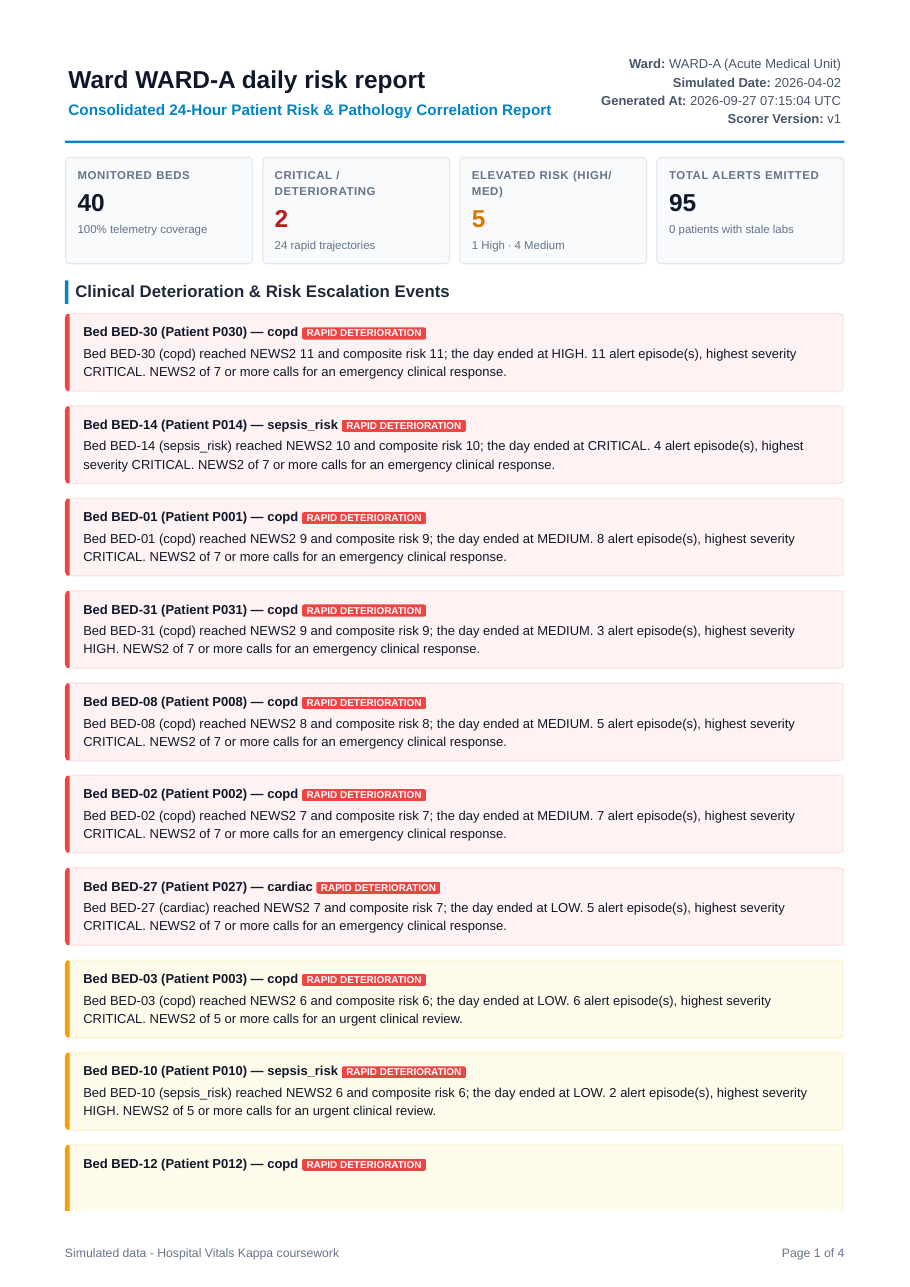
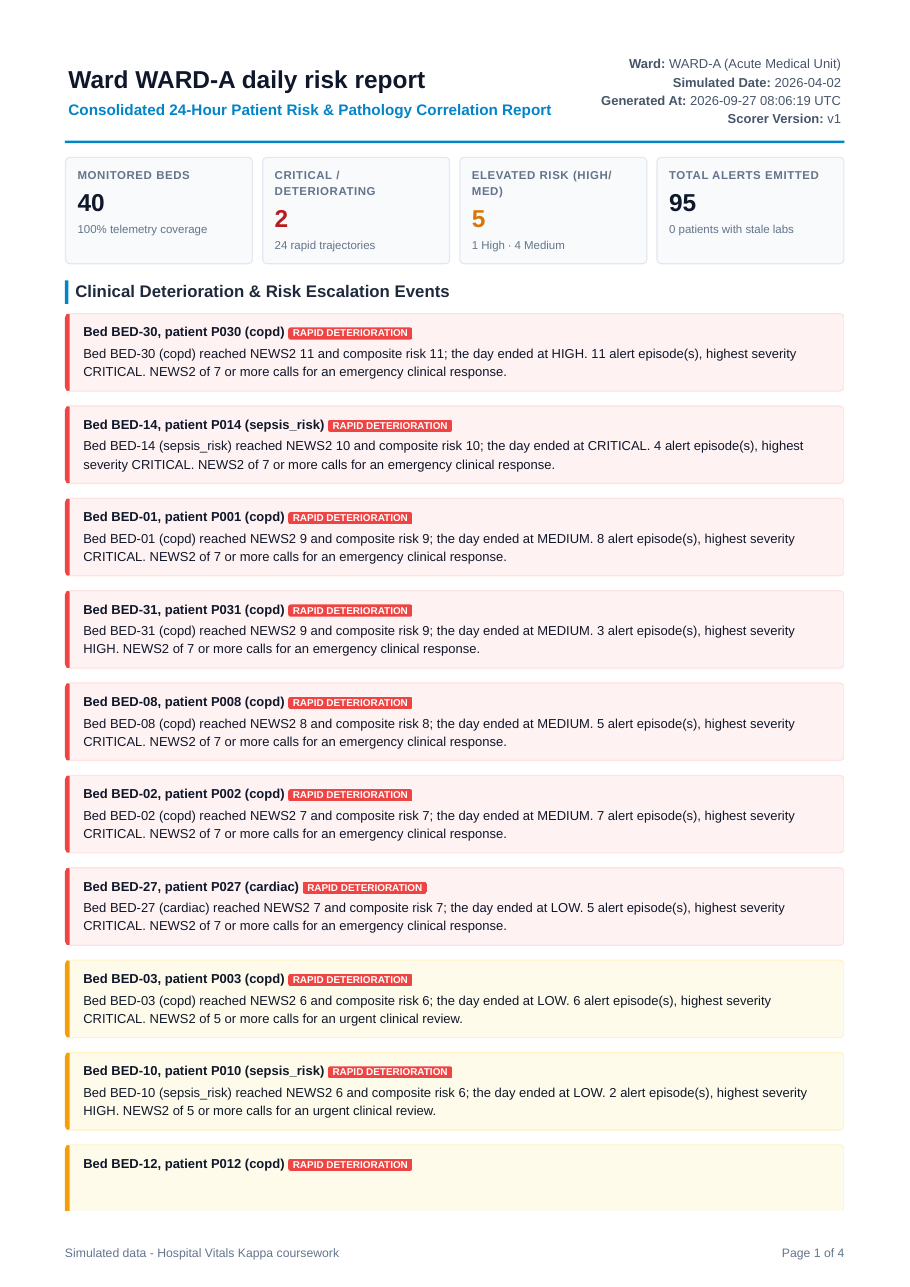
fix(report): daily report heading uses no dash
"Bed BED-14 (Patient P014) - sepsis_risk" used an em dash; it is now
"Bed BED-14, patient P014 (sepsis_risk)". The report figure is re-taken
from the re-rendered day-2 PDF.

diff --git a/ward/reporting/templates/daily_report.html b/ward/reporting/templates/daily_report.html
@@ -241,7 +241,7 @@
     {% for item in critical_highlights %}
       <div class="narrative-box {% if item.is_critical %}critical-narrative{% endif %}">
         <div class="narrative-title">
-          Bed {{ item.bed_id }} (Patient {{ item.patient_id }}) &mdash; {{ item.admitting_condition }}
+          Bed {{ item.bed_id }}, patient {{ item.patient_id }} ({{ item.admitting_condition }})
           {% if item.deterioration_detected %}
             <span class="badge-deterioration">RAPID DETERIORATION</span>
           {% endif %}
